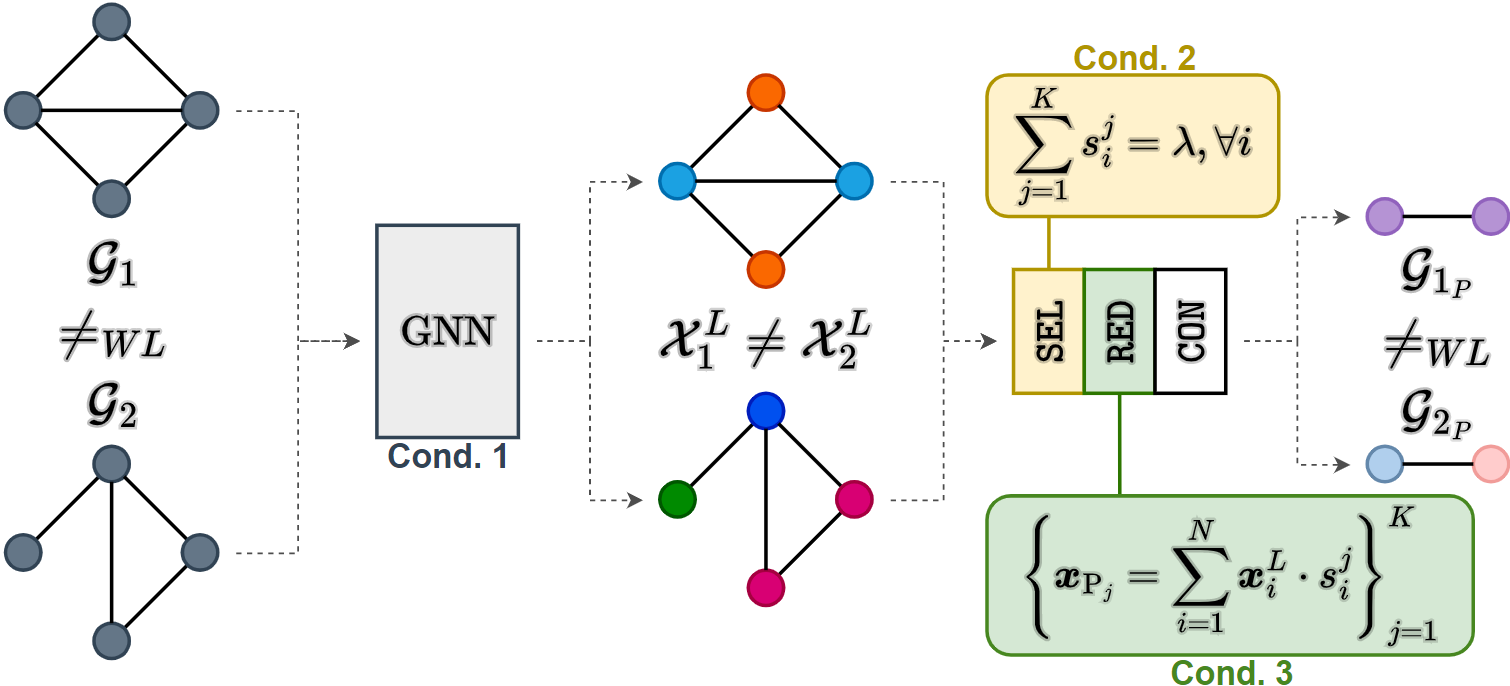
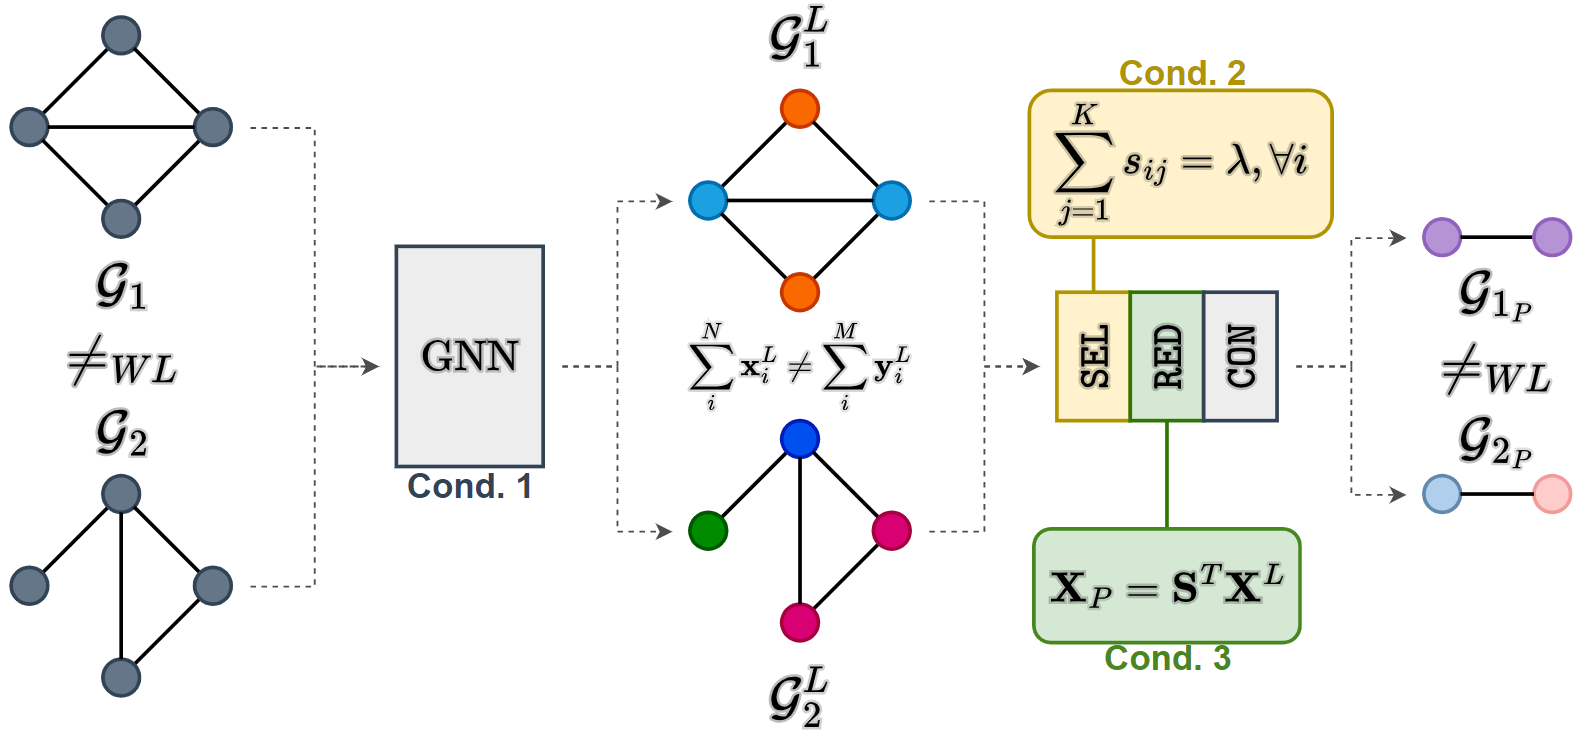
updated figs

diff --git a/README.md b/README.md
@@ -1,6 +1,9 @@
-[![arXiv](https://img.shields.io/badge/arXiv-2304.01575-b31b1b.svg?style=flat-square)](https://arxiv.org/abs/2304.01575)
+[![NIPS](https://img.shields.io/badge/NeurIPS-2023-blue)]()
+[![arXiv](https://img.shields.io/badge/arXiv-2304.01575-b31b1b.svg?)](https://arxiv.org/abs/2304.01575)
+[![Poster](https://img.shields.io/badge/%E2%87%A9-Poster-%23228B22.svg)]()
+[![Video](https://img.shields.io/badge/Presentation-%23FF0000.svg?logo=YouTube&logoColor=white)]()
 
-Official repository of the paper *"The expressive power of pooling in Graph Neural Networks"* by F. M. Bianchi and V. Lachi.
+Official repository of the paper *"The expressive power of pooling in Graph Neural Networks"* by F. M. Bianchi and V. Lachi presented at NeurIPS 2023.
 
 In a nutshell, a graph pooling operator can be expressed as the composition of 3 functions:
 
@@ -8,14 +11,14 @@ In a nutshell, a graph pooling operator can be expressed as the composition of 3
 - $\texttt{RED}$: computes the vertex features in the coarsened graph;
 - $\texttt{CON}$: computes the edges in the coarsened graphs.
 
-More details about the Select-Reduce-Connect framework can be found [here](https://arxiv.org/abs/2110.05292).
+More details about the Select-Reduce-Connect framework can be found [here](https://github.com/danielegrattarola/SRC).
 
-If certain conditions are met on the GNN layers before pooling, on the $\texttt{SEL}$, and the $\texttt{RED}$ functions, then enough information is preserved in the coarsened graph.
+If certain conditions are met on the GNN layers before pooling, on the $\texttt{SEL}$, and on the $\texttt{RED}$ functions, then enough information is preserved in the coarsened graph.
 In particular, if two graphs $\mathcal{G}_ 1$ and $\mathcal{G}_ 2$ are WL-distinguishable, their coarsened versions $\mathcal{G}_ {1_P}$ and $\mathcal{G}_{2_P}$ will also be WL-dinstinguishable.
 
 <img src="./figs/framework.png" width="523" height="235">
 
-This repository contains the dataset and the code to test empirically the expressivity of existing graph pooling operators, which is their ability to generate coarsened graphs that are still distinguishable.
+This repository contains the EXPWL1 dataset and the code to test empirically the expressivity of existing graph pooling operators, which is their ability to generate coarsened graphs that are still distinguishable.
 
 ### Execution
 Run ````python main.py --pooling 'method'```` to perform graph classification on the EXPWL1 dataset, where ````'method'```` can be one of the following:
@@ -31,32 +34,23 @@ The code is based on [Pytorch Geometric](https://pytorch-geometric.readthedocs.i
 
 ### The EXPWL1 dataset
 The dataset contains 1500 pairs of graphs $(\mathcal{G}_i, \mathcal{H_i})$, which are non-isomorphic and WL-1 distinguishable.
-A GNN as powerful as the WL-1 test should achieve approximately 100\% accuracy on this dataset.
-Two of the graph pairs in the dataset are displayed below.
+A GNN should achieve approximately 100\% accuracy on this dataset if it is as powerful as the WL-1 test .
+Four of the graph pairs in the dataset are displayed below.
 
----
-
-<img src="./figs/ex1.png" width="397" height="197">
-
----
-
-<img src="./figs/ex2.png" width="397" height="197">
-
----
+<img src="./figs/examples.png" width="700" height="350">
 
 The dataset can be downloaded [here](https://github.com/FilippoMB/The-expressive-power-of-pooling-in-GNNs/tree/main/data/EXPWL1) and the Pytorch Geometric loader is in [utils.py](https://github.com/FilippoMB/The-expressive-power-of-pooling-in-GNNs/blob/0a25de158c336acab697398951d6d3a0fec1c6cf/scripts/utils.py#L30).
 
 ### Citation
 
-Please, consider citing our paper if you use this code or the dataset in your research:
+Please, consider citing our paper if you use this code or EXPWL1 dataset in your research:
 
 ````bibtex
-@misc{bianchi2023expressive,
-    title={The expressive power of pooling in Graph Neural Networks}, 
-    author={Filippo Maria Bianchi and Veronica Lachi},
-    year={2023},
-    eprint={2304.01575},
-    archivePrefix={arXiv},
-    primaryClass={cs.LG}
+@article{bianchi2023expressive,
+  title={The expressive power of pooling in Graph Neural Networks},
+  author={Filippo Maria Bianchi and Veronica Lachi},
+  journal={Advances in neural information processing systems},
+  volume={36},
+  year={2023}
 }
 ````
